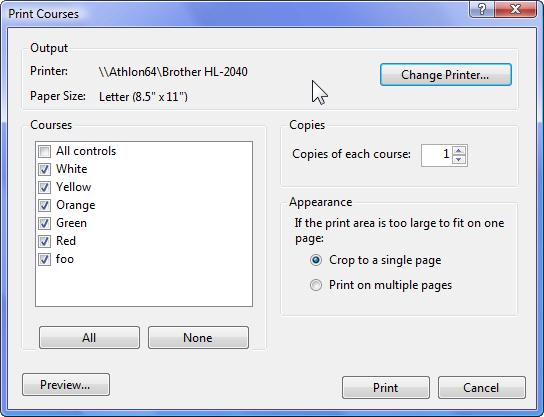
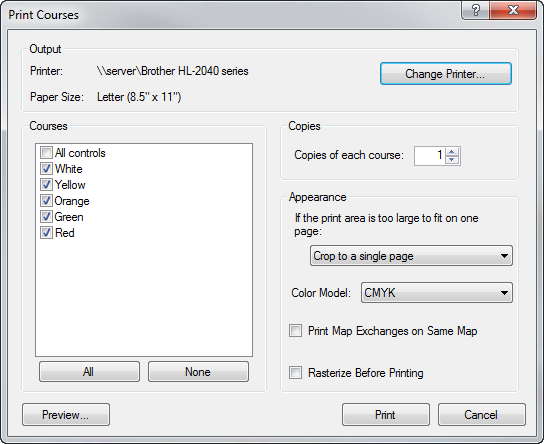
Update help with new 2.0 features.

diff --git a/doc/userdocs/WebSite/_vti_cnf/download.htm b/doc/userdocs/WebSite/_vti_cnf/download.htm
@@ -1,7 +1,7 @@
 vti_encoding:SR|utf8-nl
 vti_author:SR|Dell-Laptop\\Peter
 vti_modifiedby:SR|Macbook15\\Peter
-vti_timelastmodified:TR|14 May 2013 22:16:05 -0000
+vti_timelastmodified:TR|27 May 2013 17:42:21 -0000
 vti_timecreated:TR|01 Nov 2007 16:43:55 -0000
 vti_title:SR|Download Purple Pen
 vti_extenderversion:SR|12.0.0.0
@@ -9,12 +9,12 @@ vti_backlinkinfo:VX|support.htm contribute.htm master.dwt donate.htm news.htm de
 vti_nexttolasttimemodified:TW|14 May 2013 22:13:44 -0000
 vti_syncwith_www.golde.org\:21/purplepen.golde.org:TX|09 Oct 2011 01:13:03 -0000
 vti_syncofs_www.golde.org\:21/purplepen.golde.org:TW|09 Oct 2011 18:06:00 -0000
-vti_cacheddtm:TX|14 May 2013 22:16:05 -0000
-vti_filesize:IR|7791
+vti_cacheddtm:TX|27 May 2013 17:42:21 -0000
+vti_filesize:IR|8123
 vti_cachedtitle:SR|Download Purple Pen
 vti_cachedbodystyle:SR|<body>
-vti_cachedlinkinfo:VX|G|master.dwt H|http://purplepen.golde.org/favicon.ico Q|styles.css S|title.png H|default.htm H|news.htm H|about.htm H|download.htm H|support.htm H|contribute.htm H|donate.htm H|downloads/purplepen-122.exe S|button23.jpg S|button22.jpg S|button24.jpg S|button23.jpg S|button22.jpg H|downloads/dotnetfx.exe H|downloads/purplepen-200-beta1.exe H|downloads/purplepen-122.exe H|downloads/purplepen-121.exe H|downloads/purplepen-120.exe H|downloads/purplepen-115.exe H|downloads/purplepen-114.exe H|downloads/purplepen-112.exe H|downloads/purplepen-111.exe H|downloads/purplepen-110.exe H|downloads/purplepen-102.exe H|downloads/purplepen-101.exe H|downloads/purplepen-100.exe H|downloads/purplepen-100-rc1.exe H|downloads/purplepen-100-beta3.exe H|downloads/purplepen-100-beta2.exe H|downloads/purplepen-100-beta1.exe H|http://en.wikipedia.org/wiki/BSD_License H|license.htm
-vti_cachedsvcrellinks:VX|FGUS|master.dwt NHHS|http://purplepen.golde.org/favicon.ico FQUS|styles.css FSUS|title.png FHUS|default.htm FHUS|news.htm FHUS|about.htm FHUS|download.htm FHUS|support.htm FHUS|contribute.htm FHUS|donate.htm NHUS|downloads/purplepen-122.exe FSUS|button23.jpg FSUS|button22.jpg FSUS|button24.jpg FSUS|button23.jpg FSUS|button22.jpg FHUS|downloads/dotnetfx.exe NHUS|downloads/purplepen-200-beta1.exe NHUS|downloads/purplepen-122.exe NHUS|downloads/purplepen-121.exe NHUS|downloads/purplepen-120.exe NHUS|downloads/purplepen-115.exe NHUS|downloads/purplepen-114.exe NHUS|downloads/purplepen-112.exe FHUS|downloads/purplepen-111.exe FHUS|downloads/purplepen-110.exe FHUS|downloads/purplepen-102.exe FHUS|downloads/purplepen-101.exe FHUS|downloads/purplepen-100.exe FHUS|downloads/purplepen-100-rc1.exe FHUS|downloads/purplepen-100-beta3.exe FHUS|downloads/purplepen-100-beta2.exe FHUS|downloads/purplepen-100-beta1.exe NHHS|http://en.wikipedia.org/wiki/BSD_License FHUS|license.htm
+vti_cachedlinkinfo:VX|G|master.dwt H|http://purplepen.golde.org/favicon.ico Q|styles.css S|title.png H|default.htm H|news.htm H|about.htm H|download.htm H|support.htm H|contribute.htm H|donate.htm H|downloads/purplepen-122.exe S|button23.jpg S|button22.jpg S|button24.jpg S|button23.jpg S|button22.jpg H|downloads/dotnetfx.exe H|downloads/purplepen-200-beta3.exe H|downloads/purplepen-200-beta2.exe H|downloads/purplepen-200-beta1.exe H|downloads/purplepen-122.exe H|downloads/purplepen-121.exe H|downloads/purplepen-120.exe H|downloads/purplepen-115.exe H|downloads/purplepen-114.exe H|downloads/purplepen-112.exe H|downloads/purplepen-111.exe H|downloads/purplepen-110.exe H|downloads/purplepen-102.exe H|downloads/purplepen-101.exe H|downloads/purplepen-100.exe H|downloads/purplepen-100-rc1.exe H|downloads/purplepen-100-beta3.exe H|downloads/purplepen-100-beta2.exe H|downloads/purplepen-100-beta1.exe H|http://en.wikipedia.org/wiki/BSD_License H|license.htm
+vti_cachedsvcrellinks:VX|FGUS|master.dwt NHHS|http://purplepen.golde.org/favicon.ico FQUS|styles.css FSUS|title.png FHUS|default.htm FHUS|news.htm FHUS|about.htm FHUS|download.htm FHUS|support.htm FHUS|contribute.htm FHUS|donate.htm NHUS|downloads/purplepen-122.exe FSUS|button23.jpg FSUS|button22.jpg FSUS|button24.jpg FSUS|button23.jpg FSUS|button22.jpg FHUS|downloads/dotnetfx.exe NHUS|downloads/purplepen-200-beta3.exe NHUS|downloads/purplepen-200-beta2.exe NHUS|downloads/purplepen-200-beta1.exe NHUS|downloads/purplepen-122.exe NHUS|downloads/purplepen-121.exe NHUS|downloads/purplepen-120.exe NHUS|downloads/purplepen-115.exe NHUS|downloads/purplepen-114.exe NHUS|downloads/purplepen-112.exe FHUS|downloads/purplepen-111.exe FHUS|downloads/purplepen-110.exe FHUS|downloads/purplepen-102.exe FHUS|downloads/purplepen-101.exe FHUS|downloads/purplepen-100.exe FHUS|downloads/purplepen-100-rc1.exe FHUS|downloads/purplepen-100-beta3.exe FHUS|downloads/purplepen-100-beta2.exe FHUS|downloads/purplepen-100-beta1.exe NHHS|http://en.wikipedia.org/wiki/BSD_License FHUS|license.htm
 vti_cachedneedsrewrite:BR|false
 vti_cachedhasbots:BR|false
 vti_cachedhastheme:BR|false

diff --git a/doc/userdocs/WebSite/_vti_cnf/news.htm b/doc/userdocs/WebSite/_vti_cnf/news.htm
@@ -1,7 +1,7 @@
 vti_encoding:SR|utf8-nl
 vti_author:SR|Dell-Laptop\\Peter
 vti_modifiedby:SR|Macbook15\\Peter
-vti_timelastmodified:TR|14 May 2013 22:19:39 -0000
+vti_timelastmodified:TR|27 May 2013 17:41:43 -0000
 vti_timecreated:TR|26 Feb 2008 08:22:57 -0000
 vti_title:SR|Home
 vti_extenderversion:SR|12.0.0.0
@@ -9,12 +9,12 @@ vti_backlinkinfo:VX|contribute.htm support.htm master.dwt donate.htm news.htm ab
 vti_nexttolasttimemodified:TW|14 May 2013 22:16:06 -0000
 vti_syncwith_www.golde.org\:21/purplepen.golde.org:TX|09 Oct 2011 01:14:49 -0000
 vti_syncofs_www.golde.org\:21/purplepen.golde.org:TW|09 Oct 2011 18:06:00 -0000
-vti_cacheddtm:TX|14 May 2013 22:19:39 -0000
-vti_filesize:IR|8592
+vti_cacheddtm:TX|27 May 2013 17:41:43 -0000
+vti_filesize:IR|9686
 vti_cachedtitle:SR|Home
 vti_cachedbodystyle:SR|<body>
-vti_cachedlinkinfo:VX|G|master.dwt H|http://purplepen.golde.org/favicon.ico Q|styles.css S|title.png H|default.htm H|news.htm H|about.htm H|download.htm H|support.htm H|contribute.htm H|donate.htm H|change_summary.htm H|download.htm H|change_summary.htm H|change_summary.htm H|change_summary.htm H|change_summary.htm H|change_summary.htm H|change_summary.htm H|change_summary.htm H|change_summary.htm H|change_summary.htm H|change_summary.htm H|change_summary.htm H|translating/TranslatingPurplePen.htm H|http://launchpad.net/purple-pen H|change_summary.htm H|change_summary.htm
-vti_cachedsvcrellinks:VX|FGUS|master.dwt NHHS|http://purplepen.golde.org/favicon.ico FQUS|styles.css FSUS|title.png FHUS|default.htm FHUS|news.htm FHUS|about.htm FHUS|download.htm FHUS|support.htm FHUS|contribute.htm FHUS|donate.htm FHUS|change_summary.htm FHUS|download.htm FHUS|change_summary.htm FHUS|change_summary.htm FHUS|change_summary.htm FHUS|change_summary.htm FHUS|change_summary.htm FHUS|change_summary.htm FHUS|change_summary.htm FHUS|change_summary.htm FHUS|change_summary.htm FHUS|change_summary.htm FHUS|change_summary.htm FHUS|translating/TranslatingPurplePen.htm NHHS|http://launchpad.net/purple-pen FHUS|change_summary.htm FHUS|change_summary.htm
+vti_cachedlinkinfo:VX|G|master.dwt H|http://purplepen.golde.org/favicon.ico Q|styles.css S|title.png H|default.htm H|news.htm H|about.htm H|download.htm H|support.htm H|contribute.htm H|donate.htm H|change_summary.htm H|download.htm H|change_summary.htm H|download.htm H|change_summary.htm H|download.htm H|change_summary.htm H|change_summary.htm H|change_summary.htm H|change_summary.htm H|change_summary.htm H|change_summary.htm H|change_summary.htm H|change_summary.htm H|change_summary.htm H|change_summary.htm H|change_summary.htm H|translating/TranslatingPurplePen.htm H|http://launchpad.net/purple-pen H|change_summary.htm H|change_summary.htm
+vti_cachedsvcrellinks:VX|FGUS|master.dwt NHHS|http://purplepen.golde.org/favicon.ico FQUS|styles.css FSUS|title.png FHUS|default.htm FHUS|news.htm FHUS|about.htm FHUS|download.htm FHUS|support.htm FHUS|contribute.htm FHUS|donate.htm FHUS|change_summary.htm FHUS|download.htm FHUS|change_summary.htm FHUS|download.htm FHUS|change_summary.htm FHUS|download.htm FHUS|change_summary.htm FHUS|change_summary.htm FHUS|change_summary.htm FHUS|change_summary.htm FHUS|change_summary.htm FHUS|change_summary.htm FHUS|change_summary.htm FHUS|change_summary.htm FHUS|change_summary.htm FHUS|change_summary.htm FHUS|change_summary.htm FHUS|translating/TranslatingPurplePen.htm NHHS|http://launchpad.net/purple-pen FHUS|change_summary.htm FHUS|change_summary.htm
 vti_cachedneedsrewrite:BR|false
 vti_cachedhasbots:BR|false
 vti_cachedhastheme:BR|false

diff --git a/doc/userdocs/Help/CourseProperties.htm b/doc/userdocs/Help/CourseProperties.htm
@@ -23,7 +23,9 @@ dialog</a> is displayed instead.)</p>
 <li>Score course: A score-O or freestyle orienteering course, with no fixed order of controls. No lines are drawn between the controls, and no length is computed. Optionally, a score can be associated with each control.</li>
 </ul>
 <p><b>Climb:</b> The climb, in meters, on the course. If left blank, no climb is displayed on the description sheet.</p>
-<p><b>Class list/secondary title:</b> The text entered here is displayed on the second line of the description sheet, below the event title and about the course name, length and climb. This line is often used to list the competitor classes using the course, but this line can be used for alternate course-specific information if needed.</p>
+<p><b>Class list/secondary title:</b> The text entered here is displayed on the second line of the description sheet, below the event title and about the course name, length and climb. This line is often used to list the competitor classes using the course, but this line can be used for alternate course-specific information if needed. 
+When using this line to specify competitor classes, separate the class names 
+with commas, so that they are exported correctly to IOF XML format.</p>
 <p><b>Map printing scale:</b> The scale that the course is to be printed at. Setting this correctly is important, because it affects the size of the control circles on the map, as well as the actual printed scale. Note that different courses can be printed at different scales (e.g., Brown at 1:10,000 and Blue at 1:15,000).</p>
 <p><b>Description appearance:</b> Controls how control description sheets appears. The choices are:</p>
 <ul>
@@ -42,9 +44,12 @@ dialog</a> is displayed instead.)</p>
 are display. The default setting is the usual form using the sequence number of 
 the control (1, 2, 3, ...). Other options include the control code, or both the 
 sequence number and the code (e.g., "3-145"), as commonly used in mountain bike 
-orienteering.</p>
+orienteering. In a score course, you can also use sequence and score, or code 
+and score.</p>
 <p><b>First control number:</b> The number given to the first control. This is typically 1, so that the course is numbered 1, 2, 3, .... If you set it to, for example, 7, 
-then the controls in the course will be numbered 7, 8, 9, .... This can be used to handle multi-part courses, map exchanges, or other special cases.</p>
+then the controls in the course will be numbered 7, 8, 9, .... This can be used to handle multi-part courses, map exchanges, or other special cases. 
+However, a better way to handle map exchanges or multi-part courses is to insert 
+a map exchange directly.</p>
 <p><strong>Show points in:</strong> (available for score courses only) Controls 
 which column of the description sheet the point value for each control is 
 displayed in: column A, B, H, or not displayed.</p>

diff --git a/doc/userdocs/Help/FilePrintCourses.htm b/doc/userdocs/Help/FilePrintCourses.htm
@@ -37,11 +37,23 @@ of the checkboxes at once.</p>
 <h2>Copies section</h2>
 <p>This section determines how many copies of each course will be printed. </p>
 <h2>Appearance section</h2>
-<p>This section determines what happens if the <a href="FileSetPrintArea.htm">
+<p>Several things are set in this area:</p>
+    <p><strong>Print area too large</strong>: This setting determines what happens if the <a href="FileSetPrintArea.htm">
 print area</a> is too large to fit on a single sheet of paper. Crop to a single 
 page (the default) will pick the portion of the map that best covers that 
 course. Print on multiple pages will print multiple pages of maps to cover the 
 entire print area.</p>
+    <p><strong>Color Model</strong>: Determines how the colors on the map are converted into colors on the printer:</p>
+    <ul>
+        <li><strong>OCAD Compatible</strong>: Picks the color model based on how OCAD does: the CMYK color model for PostScript and PDF printers, and the RGB color model for other printers. This setting should match OCAD behavior very closely.</li>
+        <li><strong>RGB</strong>: Translates the Cyan-Magenta-Yellow-Black colors in the map to Red-Green-Blue colors using a simple formula. The colors on the printer will typically not match the intended colors exactly. This is the method used by versions of Purple Pen prior to 2.0.</li>
+        <li><strong>CMYK</strong>: The default. Keeps the Cyan-Magenta-Yellow-Black colors as true as possible, using a standard color profile of CMYK colors. This generally produces the most accurate rendition of the intended colors.</li>
+    </ul>
+    <p>
+        <strong>Print Map Exchanges on Same Map</strong>: This setting only appears if a map exchange is present in the event. If this is checked, all parts of the course are printed together, overlapping. If unchecked, a separate map is printed for each part of the course. Typically this should be left unchecked unless you want to see all parts together for some reason.</p>
+    <p>
+        <strong>Rasterize Before Printing</strong>: If checked, Purple Pen converts the map to an in-memory bitmap at the printer&#39;s resolution before sending the bitmap to the Windows printer driver. If unchecked, Purple Pen sends vector drawing commands to the Windows printer driver. If your print appears incorrect, printing doesn&#39;t work at all, or printing is extremely slow, checking this box may help. In most cases, leaving this unchecked should produce faster printing and smaller spool files. On Windows XP, this box is always checked and cannot be changed.
+    </p>
 <h2>Other buttons</h2>
 <p><strong>Print</strong>: This button prints the courses on the selected 
 printer. The dialog box closes.</p>

diff --git a/doc/userdocs/Help/UsingMapExchanges.htm b/doc/userdocs/Help/UsingMapExchanges.htm
@@ -1,0 +1,52 @@
+<!DOCTYPE HTML PUBLIC "-//IETF//DTD HTML//EN">
+<HTML xmlns="http://www.w3.org/1999/xhtml">
+<!-- #BeginTemplate "master.dwt" -->
+<HEAD>
+<meta name="GENERATOR" content="Microsoft&reg; HTML Help Workshop 4.1">
+<link rel=stylesheet href="StyleSheet.css" type="text/css">
+<!-- #BeginEditable "doctitle" -->
+<title>Using Map Exchanges</title>
+<!-- #EndEditable -->
+</HEAD>
+<BODY>
+<!-- #BeginEditable "content" -->
+<h1>Using Map Exchanges</h1>
+    <p>
+        Once you add a map exchange to a course, the course now has multiple parts to it. A new bar appears above the course display:
+    </p>
+    <p>
+        <img src="MapExchangeBar.png" />
+    </p>
+
+    <p>
+    At first, the course is displayed with all parts of the course visible. If you wish to see only a single part of the course, click on the 
+    map exchange bar and select only a single part:
+        </p>
+    <p>
+        <img src="MapExchangeBar2.png" />
+    </p>
+
+    <p>
+        In this mode, only one of the parts of the course is visible, and the course is displayed just like the competitors
+        will see it. You can edit controls or other objects on the map in either mode.
+    </p>
+    <p>
+        <strong>Important Note: </strong>You can only view or place control descriptions on the map when viewing a single
+        part. You cannot place control descriptions when "All Parts" is being viewed.
+    </p>
+    <p>
+        When choosing which courses an item such as control descriptions or a water location is displayed on (using the
+        <a href="EditChangeDisplayedCourses.htm">Item/Change Displayed Courses</a> command), you can chose which parts of a course that the item is displayed on:
+    </p>
+    <p>
+        <img src="ChangeDisplayedCoursesMapExchange.png" />
+    </p>
+    <p>
+        This can be useful, for example, if you wish control descriptions to be in the same place on all parts of
+        a course. Place the control descriptions on one part, select Item/Change Displayed Courses, then select
+        all parts of the course.
+    </p>
+    <!-- #EndEditable -->
+</BODY>
+<!-- #EndTemplate -->
+</HTML>

diff --git a/doc/userdocs/Help/EditAddGap.htm b/doc/userdocs/Help/EditAddGap.htm
@@ -25,17 +25,31 @@ feature.</p>
 <p>It is recommended to <a href="Moving%20around.htm">zoom in</a> on the desired 
 control circle first. Select the desired control circle, then chose the Edit/Add 
 Gap command. </p>
-<p>Click on the portion of the control circle that you wish to remove. A small 
-section of the control circle will be removed around where you clicked. The size 
-of the created gap is always the same. To create a larger gap, chose Edit/Add 
-Gap again and create a new adjacent gap. </p>
+<p>Either:</p>
+<ul>
+	<li>Click on the portion of the control circle that you wish to remove. A 
+	small section of the control circle will be removed around where you 
+	clicked. The size of the created gap is always the same. </li>
+	<li>Press and hold the left mouse button where you would like the gap to 
+	begin. With the mouse button still held down, drag the mouse to where you 
+	would like the gap to end, and then release the mouse button.</li>
+</ul>
+<p>Once a gap in a control circle is created, its size can be adjusted by 
+dragging the end points of the gap with the mouse.</p>
 <p>If different courses are printed at different scales, the control circles 
 will be different. Each different print scale will have its own set of gaps.</p>
 <h2>Adding a gap to a leg</h2>
-<p>Selected the desired leg, then chose the Edit/Add Gap command. Press and hold 
+<p>Selected the desired leg, then chose the Edit/Add Gap command. </p>
+<p>Either:</p>
+<ul>
+	<li>Click on the portion of the leg that you wish to remove. A small section 
+	of the leg will be removed around where you clicked. The size of the created 
+	gap is always the same. </li>
+	<li>Press and hold 
 the left mouse button where you would like the gap to begin. With the mouse 
 button still held down, drag the mouse to where you would like the gap to end, 
-then release the mouse button.</p>
+then release the mouse button.</li>
+</ul>
 <p>Once a gap in a leg is created, its size can be adjusted by dragging the end 
 points of the gap with the mouse.&nbsp;</p>
 

diff --git a/doc/userdocs/Help/EditAddMapExchangeAtControlPoint.htm b/doc/userdocs/Help/EditAddMapExchangeAtControlPoint.htm
@@ -1,0 +1,32 @@
+<!DOCTYPE HTML PUBLIC "-//IETF//DTD HTML//EN">
+<HTML>
+<!-- #BeginTemplate "master.dwt" -->
+<HEAD>
+<meta name="GENERATOR" content="Microsoft&reg; HTML Help Workshop 4.1">
+<link rel=stylesheet href="StyleSheet.css" type="text/css">
+<!-- #BeginEditable "doctitle" -->
+<Title>Item/Add Map Exchange/Map Exchange at Control Point</Title>
+<!-- #EndEditable -->
+</HEAD>
+<BODY>
+<!-- #BeginEditable "content" -->
+<h1>Item/Add Map Exchange/Map Exchange at Control Point</h1>
+<p>Adds a map exchange directly at a control point. At the control point, competitors 
+    pick up a new map that shows the remaining part of the course. The control point 
+    where the map exchange is located appears on both parts of the map.</p>
+<p>When this command is selected, all the controls in the control collection that are not already in the current course are shown in light purple on the current course map.</p>
+<ul>
+<li>To change a control that is already on the course into a map exchange control, click on that control circle.</li>
+    <li>To add an existing control to the current course, and make it a map exchange control, click on the light purple existing control.</li>
+<li>To add a new control to the current course, and make it a map exchange control, click elsewhere on the map. The new control is created with a code selected according to the <a href="ControlsAutomaticNumbering.htm">automatic numbering</a> settings.</li>
+</ul>
+
+
+    <p>Once you have added a map exchange, <a href="UsingMapExchanges.htm">the editing window allows switching between parts of the course</a>.</p>
+
+
+
+<!-- #EndEditable -->
+</BODY>
+<!-- #EndTemplate -->
+</HTML>

diff --git a/doc/userdocs/Help/EventCustomizeCourseAppearance.htm b/doc/userdocs/Help/EventCustomizeCourseAppearance.htm
@@ -29,8 +29,10 @@ triangle, finish circle, crossing points, refreshment marking, and first aid
 markings, which will be scaled in the same ratio. The IOF standard is 6.0 mm.</p>
 <p><strong>Line width</strong>: Sets the width of lines for legs, control 
 circles, start triangle, and the finish circle. The IOF standard is 0.35 mm.</p>
+    <p><strong>Center dot diameter</strong>: If set to something higher than 0.00m (the IOF standard), places a dot of the indicated diameter in the center of the control circle. Although not typically used, it is useful for certain types of maps.</p>
 <p><strong>Control number height</strong>: Sets the height of digits used for 
 controls numbers. The IOF standard is 4.0 mm.</p>
+    <p><strong>Control number style</strong>: Determines if the control number is regular or boldface. The IOF standard is regular.</p>
 <p><strong>Use purple color from map</strong>: If this is checked, the color 
 used for the course will be the same shade of Purple as used in the underlying 
 OCAD map. If an image is used instead of an OCAD map, or the Purple color cannot 
@@ -38,8 +40,6 @@ be determined, a default purple color is used. Uncheck this to specify the
 purple color directly.</p>
 <p><strong>Cyan, Magenta, Yellow, Black</strong>: Specifies the percentages of 
 each pigment used to create the purple color, from 0 to 100.</p>
-<p><strong>Color chooser</strong>: Click this to visually choose the purple 
-color.</p>
 <p>&nbsp;</p>
 <p><strong>Note:</strong> the sizes of control circles and other feature are 
 calculated based on the scale the map will be printed at. If the circles appears 

diff --git a/doc/userdocs/Help/EditAddControlDescriptions.htm b/doc/userdocs/Help/EditAddControlDescriptions.htm
@@ -27,11 +27,21 @@ by dragging the &quot;handles&quot; that appear on the corners and sides when it
 selected.</p>
 <p>When control description are added onto a course, the control descriptions 
 appear for that course only. If you wish to have the control descriptions appear 
-in the same location on all courses, select the <a href="CourseTabs.htm">&quot;All Controls&quot; tab</a>, then add the 
-control descriptions there. You can also adjust which courses use a particular 
-location for the control descriptions with the
+in the same location on multiple courses, select the
 <a href="EditChangeDisplayedCourses.htm">Item/Change Displayed Courses</a> 
 command.</p>
+<p>The control description can appear as a single column, or as multiple 
+columns. To display control descriptions as multiple columns, just drag the left 
+or right edge of the descriptions with the mouse to widen the descriptions until 
+they display in multiple columns.</p>
+<p>If you are displaying "All Parts" for a course with a map exchange, you 
+cannot add a control description. You must select the part that you wish to add 
+descriptions to, then add the descriptions to that part. If you wish the 
+descriptions to appear in the same place in multiple parts, select the
+<a href="EditChangeDisplayedCourses.htm">Item/Change Displayed Courses</a> 
+command.</p>
+<p>You can add descriptions to "All Controls". These descriptions show all the 
+controls in the event.</p>
 <p>The appearance of the control descriptions (symbols, text, or both) can be 
 changed with the <a href="CourseProperties.htm">Course/Properties</a> command.
 </p>

diff --git a/doc/userdocs/Help/EditAddMapExchange.htm b/doc/userdocs/Help/EditAddMapExchange.htm
@@ -1,0 +1,33 @@
+<!DOCTYPE HTML PUBLIC "-//IETF//DTD HTML//EN">
+<HTML>
+<!-- #BeginTemplate "master.dwt" -->
+<HEAD>
+<meta name="GENERATOR" content="Microsoft&reg; HTML Help Workshop 4.1">
+<link rel=stylesheet href="StyleSheet.css" type="text/css">
+<!-- #BeginEditable "doctitle" -->
+<Title>Item/Add Map Exchange</Title>
+<style type="text/css">
+.style1 {
+	border-style: solid;
+	border-width: 1px;
+}
+</style>
+<!-- #EndEditable -->
+</HEAD>
+<BODY>
+<!-- #BeginEditable "content" -->
+<div class="topicheading">
+<h1>Item/Add Map Exchange</h1>
+<p class="shortcut"><B>Toolbar Button:</B> 
+<img border="1" align="absmiddle" src="ToolbarAddMapExchange.png" class="toolbar"></div>
+<p>The Add Map Exchange menu adds a map exchange to a map. There are two kinds of map exchanges (click below for detailed information):</p>
+<p><a href="EditAddMapExchangeAtControlPoint.htm">
+<img border="1" align="absmiddle" src="ToolbarMapExchangeAtControl.png" class="toolbar"></p>
+<p><a href="EditAddFlaggedRouteToMapExchange.htm">
+<img border="1" align="absmiddle" src="ToolbarFlaggedRouteToMapExchange.png" class="toolbar"></a></p>
+    <p>&nbsp;</p>
+    <p>Once you have added a map exchange, <a href="UsingMapExchanges.htm">the editing window allows switching between parts of the course</a>.</p>
+<!-- #EndEditable -->
+</BODY>
+<!-- #EndTemplate -->
+</HTML>

diff --git a/doc/userdocs/Help/Moving around.htm b/doc/userdocs/Help/Moving around.htm
@@ -12,10 +12,11 @@
 <!-- #BeginEditable "content" -->
 <H1>Moving around the map</H1>
 <H2>Panning the map</H2>
-<p>There are two ways to pan around the map to see parts that are off the edge of the display window.</p>
+<p>There are three ways to pan around the map to see parts that are off the edge of the display window.</p>
 <UL>
 <LI>Use the scroll bars on the right and bottom edges of the map windows to move the map around.</LI>
-<LI>Press and hold the right mouse button, and drag the map around.</LI>
+<LI>Press and hold either the left or right mouse button, and drag the map around.</LI>
+	<LI>Press the arrow keys on the keyboard.</LI>
 </UL>
 <H2>Zooming in and out</H2>
 <p>There are three ways to zoom the map in and out. The current zoom level is always displayed at the bottom right of the main window, just to the left of the zoom slider.</p>
@@ -34,7 +35,7 @@
 	course.</li>
 </ul>
 <p><b>Tip:</b> Experienced users find that using the mouse wheel to zoom is often the easiest way to move long distances around the map. Zoom out until the area you wish to view is visible, then move the mouse to that location and zoom in.
-<p>&nbsp;<p><a href="Selecting.htm">Next: Selecting objects</a><!-- #EndEditable -->
+<p>&nbsp;<p><a href="Selecting.htm">Next: Selecting objects</a><!-- #EndEditable --><p>&nbsp;
 </BODY>
 <!-- #EndTemplate -->
 </HTML>

diff --git a/doc/userdocs/Help/EditAddFlaggedRouteToMapExchange.htm b/doc/userdocs/Help/EditAddFlaggedRouteToMapExchange.htm
@@ -1,0 +1,29 @@
+<!DOCTYPE HTML PUBLIC "-//IETF//DTD HTML//EN">
+<HTML>
+<!-- #BeginTemplate "master.dwt" -->
+<HEAD>
+<meta name="GENERATOR" content="Microsoft&reg; HTML Help Workshop 4.1">
+<link rel=stylesheet href="StyleSheet.css" type="text/css">
+<!-- #BeginEditable "doctitle" -->
+<Title>Item/Add Map Exchange/Flagged Route to Map Exchange</Title>
+<!-- #EndEditable -->
+</HEAD>
+<BODY>
+<!-- #BeginEditable "content" -->
+<h1>Item/Add Map Exchange/Flagged Route to Map Exchange</h1>
+<p>Adds a map exchange at a location that is not a control point. There is a flagged route from the last control on one part to the map exchange location, which serves as the start for the second part. The map exchange point appears as a triangle.</p>
+<p>When this command is selected, any existing map exchange locations are shown in light purple on the current course map.</p>
+<ul>
+    <li>To add an existing map exchange location to the current course, click on the light purple triangle.</li>
+<li>To add a new map exchange point to the current course, click elsewhere on the map. </li>
+</ul>
+
+
+    <p>Once you have added a map exchange, <a href="UsingMapExchanges.htm">the editing window allows switching between parts of the course</a>.</p>
+
+
+
+<!-- #EndEditable -->
+</BODY>
+<!-- #EndTemplate -->
+</HTML>
